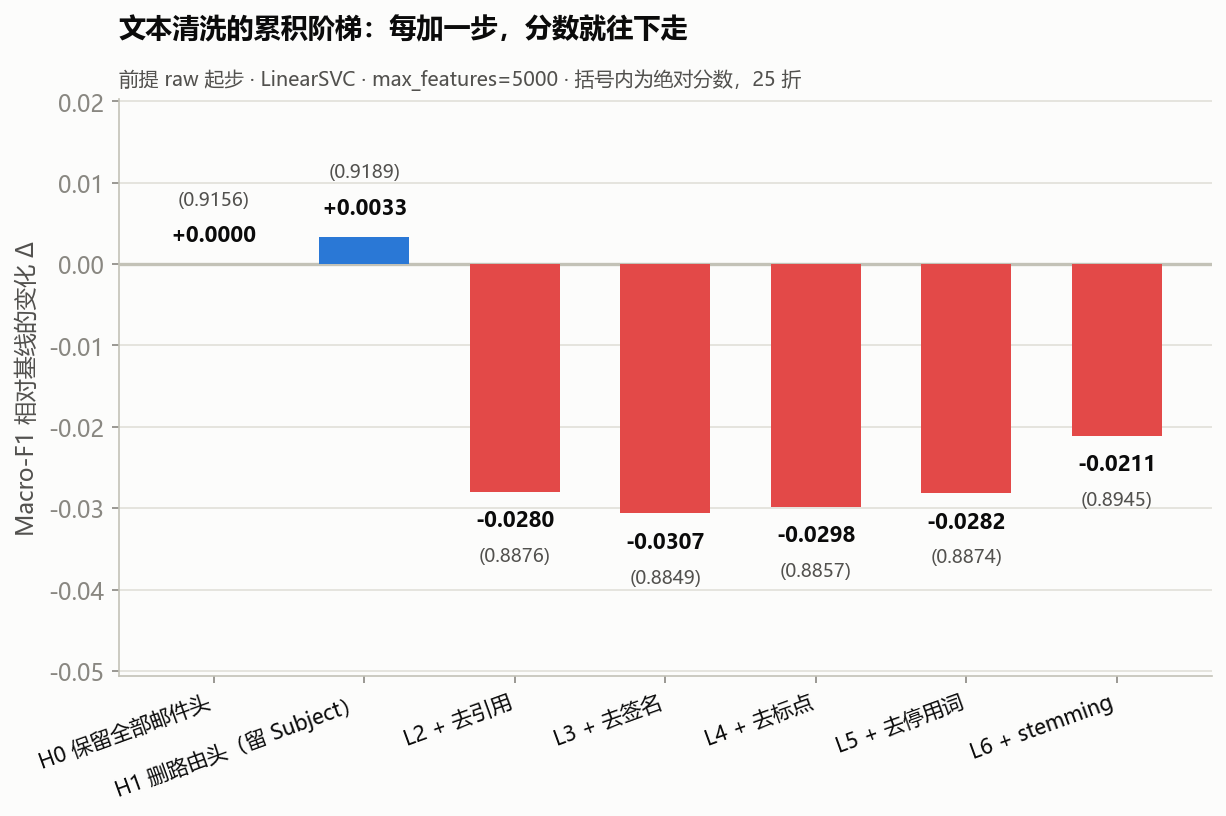
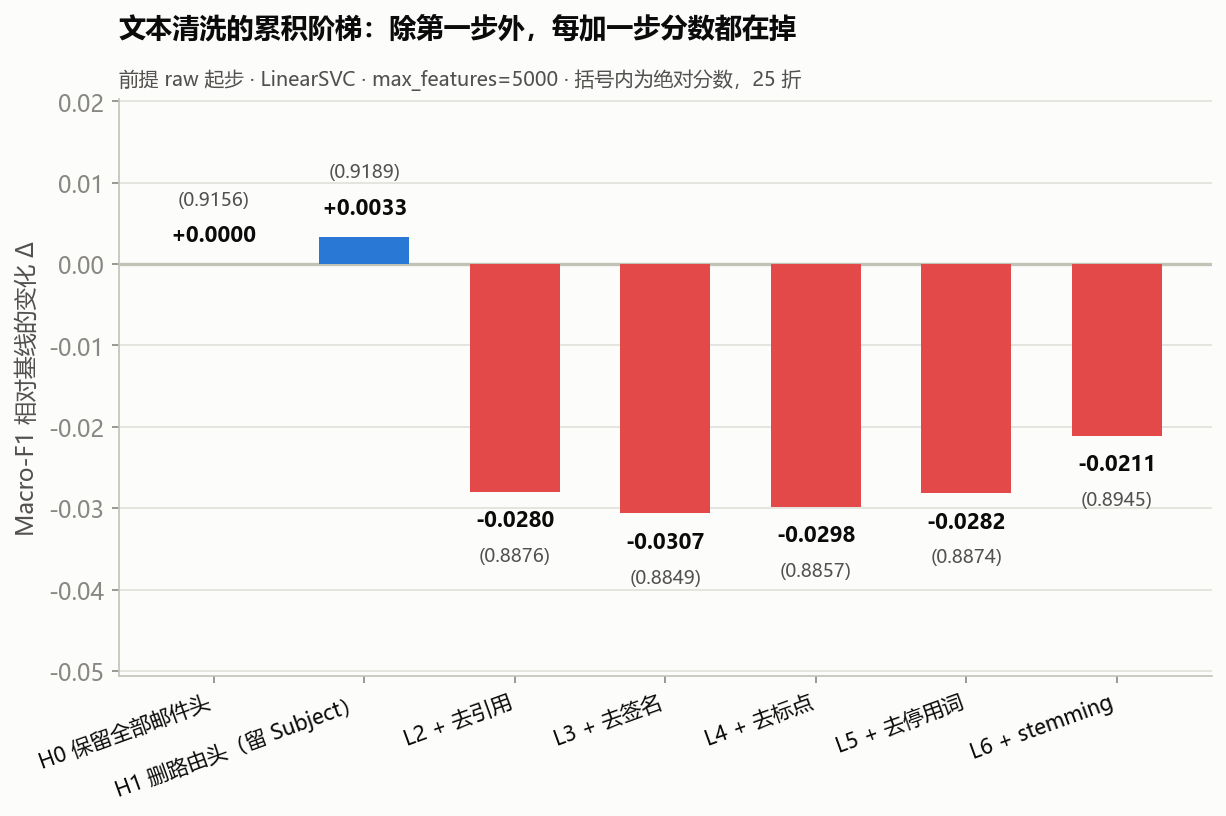
整理 figs/ 与 results/：删重复、补引用、修一处图题
用户要求逐一检查两个目录里"不对的或重复的内容"。

【results/ —— 删掉 4 个冗余文件】
1. 两对内容**完全相同的 CSV**（md5 一致）：
     model_fold_scores_routing_5x5.csv  ≡  model_fold_scores_routing_baseline_5x5.csv
     model_paired_tests_routing_5x5.csv ≡  model_paired_tests_routing_baseline_5x5.csv
   前者是 10-11 的旧命名，后者是 main.py 现行命名（{clean_preset}_{tfidf_preset}_{tag}），
   且与同一次运行的 model_metrics_routing_baseline_5x5.csv 配套。删旧留新。
   ⚠ plots.py:653 用的是旧名——已改到新名，并重跑 fig10 确认输出**逐字节未变**
   （git 未报 figs/ 改动，反证两文件内容一致）。
2. 三份补数据日志里两份近乎重复（62 行 vs 58 行，仅差 30 行），
   保留覆盖最全的 run_tfidf_restore.log，删 final / refill。

【figs/ —— 3 张闲置的图全部用上】
fig2（清洗累积阶梯）、fig5（模型超参曲线）、fig6（TF-IDF 森林图）
此前从未被报告引用，只在 README 里挂着；而 §3.4 当时**一张结果图都没有**。
已分别嵌入 §3.2 / §3.4 / §3.3——报告现在 12 张结果图全部用上。

【修一处图题不准确】
fig2 原题"每加一步，分数就往下走"——但第一步（删路由头）是 **+0.0033，上升的**。
已改为"除第一步外，每加一步分数都在掉"，并同步报告里的说明文字。
（两条读数都实际渲染出来核对过。）

results/ 从 90 → 86 个文件；各 README 的计数与清单同步。

Changed region(s): [[0.4029, 0.0, 0.6509, 0.0613], [0.31, 0.0, 0.3719, 0.0613]]

diff --git a/data-Project1/plots.py b/data-Project1/plots.py
@@ -192,7 +192,7 @@ def fig2_cleaning_ladder():
     """阶梯画的是**相对基线的变化量**，不是绝对分数。
 
     绝对分数的差异只有 0.006~0.031，画在 0.86~0.94 的纵轴上基本看不出高低；
-    直接画 Δ 才能让"每加一步就往下走"这个结论一眼可见。
+    直接画 Δ 才能让"除第一步外，每加一步都往下走"这个结论一眼可见。
     绝对分数用次要标注补在 Δ 下方，两者都不丢。
     """
     df = _load("ablation_clean_5x5.csv")
@@ -227,7 +227,7 @@ def fig2_cleaning_ladder():
     ax.set_xticklabels(labels, rotation=20, ha="right", color=INK_PRIMARY, fontsize=10)
     ax.set_ylabel("Macro-F1 相对基线的变化 Δ")
     ax.grid(axis="x", visible=False)
-    _title(ax, "文本清洗的累积阶梯：每加一步，分数就往下走",
+    _title(ax, "文本清洗的累积阶梯：除第一步外，每加一步分数都在掉",
            "前提 raw 起步 · LinearSVC · max_features=5000 · 括号内为绝对分数，25 折")
     _save(fig, "fig2_cleaning_ladder.png")
 
@@ -650,7 +650,7 @@ def fig10_gain_waterfall():
     两个增量柱上画的是配对差的 95% CI（同一批折逐折做差），不是独立均值的区间。
     """
     raw = _load("model_fold_scores_raw_5x5.csv", index_col=0)
-    mid = _load("model_fold_scores_routing_5x5.csv", index_col=0)
+    mid = _load("model_fold_scores_routing_baseline_5x5.csv", index_col=0)   # 5000 维（routing 前提）
     fin = _load("model_fold_scores_routing_best_5x5.csv", index_col=0)
     if raw is None or mid is None or fin is None:
         return

diff --git a/实验报告.md b/实验报告.md
@@ -252,8 +252,12 @@ TF-IDF 将文档表示为词权重向量：
 
 ![终端证据 ⑤ · 清洗消融：13 个配置逐个跑出的结果](figs/term/term_05_ablation.png)
 
+**先看累积阶梯**：每加一步清洗，相对基线的变化量。**只有第一步（删路由头）是正的（+0.0033），之后每一步都在掉**——而且掉得远比第一步挣回来的多。这里画的是 Δ 而不是绝对分：7 个配置的绝对分挤在 0.885~0.919 之间，画在截断纵轴上柱子几乎等高，什么都看不出来。
 
-**单项独立结果**（基准 = 原文 0.9156，LinearSVC，25 折）：
+![清洗的累积阶梯](figs/fig2_cleaning_ladder.png)
+
+
+**再看单项独立结果**（基准 = 原文 0.9156，LinearSVC，25 折）：
 
 | 操作 | Macro-F1 | Δ vs 原文 | 配对检验结论 |
 |---|---|---|---|
@@ -350,6 +354,8 @@ TF-IDF 将文档表示为词权重向量：
 
 ![max_features 曲线](figs/fig4_max_features.png)
 
+![TF-IDF 各参数的效应（森林图）](figs/fig6_tfidf_forest.png)
+
 ![终端证据 ⑦ · TF-IDF 各参数配置逐个跑出的分数](figs/term/term_07_tfidf_sweep.png)
 
 **四条结论：**
@@ -389,6 +395,10 @@ TF-IDF 将文档表示为词权重向量：
 呈教科书式的 U 形，最优在 C=1。**注意 C=10 与 C=1 统计上不可区分——最优点附近是一片平台而非尖峰**，说明在正确量级附近具体取值不敏感。
 
 ![终端证据 ⑧ · 模型超参扫描：LinearSVC 的 C 与 LR 的 C×penalty](figs/term/term_08_model_sweep.png)
+
+左图是 LinearSVC 的 `C` 曲线（明显的 U 形，最优在 C=1 的平台上）；右图是 LR 的 `C × penalty`（L1 全区间被 L2 压制，C=0.01 处 L1 几乎贴地——模型输出退化成常数）：
+
+![模型超参曲线](figs/fig5_model_hyperparams.png)
 
 
 **LogisticRegression 的 C × penalty**（L1/L2 统一用 liblinear 求解器，以隔离出纯 penalty 效应）：
